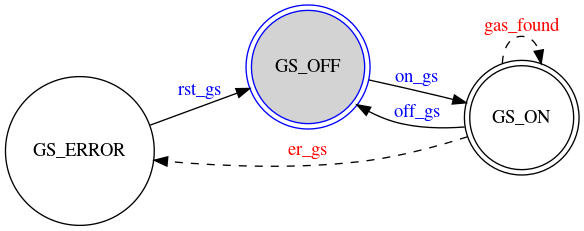
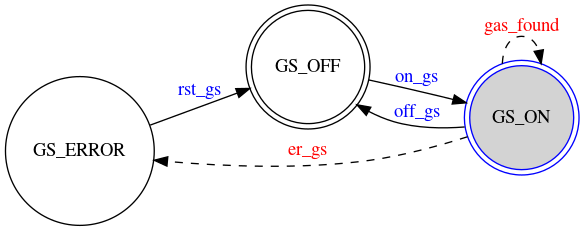
new Interface and EventsMonitor

Changed region(s): [[0.4007, 0.0, 0.6473, 0.5758], [0.7705, 0.2424, 1.0, 0.7576]]

diff --git a/src/Intereface.py b/src/Intereface.py
@@ -21,7 +21,9 @@ class EventInterface(Thread):
         # Set environment variable required for the Interface execution
         os.environ["DISPLAY"]=":0"
 
+        # Control of the tracer
         self.current_status_id = -1
+        self.new_trace = False
 
         # Get name of the Machines
         machines = [s[0] for s in inspect.getmembers(states_module,inspect.isclass)]
@@ -52,15 +54,26 @@ class EventInterface(Thread):
         #####################################################################################################################
         #Layout
         layout =[ 
-            [sg.Text('Current machine:'), sg.InputCombo(values=machines, default_value=machines[0], size=(35,10), key='option', enable_events=True)],
-            [sg.Image("output/" + machines[0] + ".png", key="_IMAGE_", background_color="white")],
-            [sg.Text('Trigger event')],
-            [sg.Radio('Controllable','event_type', default=False, key='controllable',enable_events=True), sg.Radio('Uncontrollable','event_type', default=True, key='uncontrollable',enable_events=True)],
-            [sg.InputCombo(values = self.__not_cont_inputs, default_value= self.__not_cont_inputs[0], size=(20,10), key='selected_event', enable_events=True), sg.Button('TRIGGER', key='trigger')]
-        ]
+            [sg.Text('Current machine:'), 
+             sg.InputCombo(values=machines, default_value=machines[0], size=(35,10), key='option', enable_events=True)],
 
+            [sg.Image("output/" + machines[0] + ".png", key="_IMAGE_", background_color="white")],
+
+            [sg.Frame('Trace:',[
+                [sg.Text("Id"), sg.Text("Event"),sg.Text("Time")],
+                [sg.Multiline(size=(20,10), key='tracer', disabled=True, autoscroll=True)],
+                [sg.SaveAs("SAVE", key='save', file_types = (("ALL Files", "*.*"),("CSV text",".csv"),("Text",".txt")), enable_events=True)]
+                ]),
+            sg.Frame('Trigger event',[
+                [sg.Radio('Controllable','event_type', default=False, key='controllable',enable_events=True)], 
+                [sg.Radio('Uncontrollable','event_type', default=True, key='uncontrollable',enable_events=True)],
+                [sg.InputCombo(values = self.__not_cont_inputs, default_value= self.__not_cont_inputs[0], size=(20,10), key='selected_event', enable_events=True)],
+                [sg.Button('TRIGGER', key='trigger')]
+                ])]                      
+        ]
+        
         #Janela
-        self.janela = sg.Window("State Machine visualizer", size=(1000,500)).layout(layout)
+        self.janela = sg.Window("State Machine visualizer", size=(1000,600)).layout(layout)
         
         
     def run(self):
@@ -71,19 +84,36 @@ class EventInterface(Thread):
 
         while True:
             #Extrair os dados da tela
-            event, values = self.janela.Read(timeout=1000)
+            event, values = self.janela.Read(timeout=10)
             if event in (None, 'Cancel'):   # if user closes window or clicks cancel
                 print('\nCLOSING EVENT INTERFACE ...\n')
                 break
 
-            #Update the Automaton Image
-            try:
-                self.janela.Element("_IMAGE_").update(filename="output/" + values['option'] + ".png")
-            except:
-                pass
-            
-            #Update list of events if there is a change between 'controllable' and 'uncontrollable'
-            if event == 'controllable':
+            # New event occured
+            if self.new_trace==True:
+                self.new_trace = False
+                #Update tracer
+                if self.trace.tail(1).index[0] > 0:
+                    if self.__events[self.trace.tail(1)['event'].values[0]].is_controllable():
+                        color = 'blue'
+                    else:
+                        color = 'red'
+                    self.janela['tracer'].print(self.trace.tail(1).drop(columns=['enabled_events','states']).to_string(header=False), text_color=color)
+
+                #Update the Automaton Image
+                try:
+                    self.janela.Element("_IMAGE_").update(filename="output/" + values['option'] + ".png")
+                except:
+                    pass
+
+            if event == 'option':
+                #Update the Automaton Image
+                try:
+                    self.janela.Element("_IMAGE_").update(filename="output/" + values['option'] + ".png")
+                except:
+                    pass
+            elif event == 'controllable':
+                #Update list of events if there is a change between 'controllable' and 'uncontrollable'
                 self.janela.Element('selected_event').update(values = self.enabled_e)
                 self.event_type = 'controllable'
             elif event == 'uncontrollable':
@@ -96,6 +126,8 @@ class EventInterface(Thread):
                     self.__events[values['selected_event']].call()
                 else:
                     self.__receiver.receive_event(values['selected_event'])
+            elif event == 'save':
+                print("Save on -> ", values['save'])
 
         self.janela.Close()
 
@@ -108,15 +140,14 @@ class EventInterface(Thread):
             g_var.trace_update_flag.acquire()
             while (g_var.events_trace.tail(1).empty) or (self.current_status_id == g_var.events_trace.tail(1).index[0]):
                 g_var.trace_update_flag.wait()
-            current_status = g_var.events_trace.tail(1)                 # Get the last update
-            self.current_status_id = current_status.index[0]            # Set the id of the last event
+            self.trace = g_var.events_trace                                  # Get the last update
+            self.current_status_id = self.trace.tail(1).index[0]             # Set the id of the last event
 
-            self.enabled_e = current_status['enabled_events'].array[0]
+            self.new_trace = True
+            self.enabled_e = self.trace.tail(1)['enabled_events'].array[0]
 
             # Update list of allowed controllable events
             if self.event_type == 'controllable':
-                self.janela.Element('selected_event').update(values = self.enabled_e)
-
-            #Update tracer
+                self.janela['selected_event'].update(values = self.enabled_e)
 
             g_var.trace_update_flag.release()                   # Release mutex

diff --git a/src/lib/ProductSystem.py b/src/lib/ProductSystem.py
@@ -30,11 +30,10 @@ def trigger_event(event, event_class, param):
 	g_var.allow_events_flag.acquire()
 	while g_var.event_allowed == False:
 		g_var.allow_events_flag.wait()											# Wait till all State Machines are updated
-	g_var.event_allowed = False													# Block occurance of another event
-	g_var.allow_events_flag.release()
-
+	
 	#Verify if the current event is enabled by all SM that contain it
 	if event_class.get_status() == True:
+		g_var.event_allowed = False													# Block occurance of another event
 		g_var.new_event.acquire()											# Update last event occured
 		g_var.last_event = event
 
@@ -49,13 +48,15 @@ def trigger_event(event, event_class, param):
 		g_var.new_event.release()											# Release mutexes
 	else:
 		print(event, ' not enabled!')										# Current controllable event not allowed by the system
+
+	g_var.allow_events_flag.release()
 	
 
 class EventsMonitor(Thread):
 	'''
 		Class responsible for monitoring the set of enabled events, last event and current states
 	'''
-	def __init__(self):
+	def __init__(self, SM_number = 1):
 		Thread.__init__(self)
 
 		# Get all controllable events into a list
@@ -63,6 +64,7 @@ class EventsMonitor(Thread):
 		self.__events = {}
 		for x in inspect.getmembers(events_module, inspect.isclass):
 			self.__events[x[0]]=x[1]
+		self.SM_quantity = SM_number
     
 		self.__cont_e = [e for e in self.__events if self.__events[e].is_controllable()] 
 
@@ -70,7 +72,7 @@ class EventsMonitor(Thread):
 		while True:
 			#Verify if all Machines are updated
 			g_var.SM_update_flag.acquire()
-			while (not all(g_var.SM_status.values()) or (not bool(g_var.SM_status))):
+			while (not all(g_var.SM_status.values())) or (len(g_var.SM_status) < self.SM_quantity):
 				g_var.SM_update_flag.wait()
 			g_var.SM_status = {x: False for x in g_var.SM_status}				# Clear all State Machines status
 			g_var.SM_update_flag.release()

diff --git a/src/system_start.py b/src/system_start.py
@@ -5,14 +5,7 @@ from MissionManager import MissionManager
 from Intereface import EventInterface
 from lib.ProductSystem import EventsMonitor
 
-
-em = EventsMonitor()
-em.start()
-
-#############################################################################
-#### Start the Interface ####################################################
-ev = EventInterface()
-ev.start()
+machines_counter = 0
 
 #############################################################################
 #### Create and Start Multiple State Machines from one file  #################
@@ -21,6 +14,7 @@ G.read_xml('files/Plant.xml')         # File with multiple Automata
 SM = {}
 for aut in G.get_automata().values():
     SM[aut.get_name()] = StateMachine(aut)
+    machines_counter += 1
 
 #Start all State Machines
 for sm in SM.values():
@@ -34,10 +28,23 @@ S.read_xml('files/Supervisors.xml')         # File with multiple Automata
 SUP = {}
 for aut in S.get_automata().values():
     SUP[aut.get_name()] = Supervisor(aut)
+    machines_counter += 1
 
 #Start all State Machines
 for sup in SUP.values():
     sup.start()
+
+
+#############################################################################
+#### Start the Events Monitor ###############################################
+em = EventsMonitor(machines_counter)
+em.start()
+
+#############################################################################
+#### Start the Interface ####################################################
+ev = EventInterface()
+ev.start()
+
 
 #############################################################################
 #### Start the Mission Manager  #############################################

diff --git a/src/MissionManager.py b/src/MissionManager.py
@@ -26,6 +26,7 @@ class MissionManager(Thread):
 
     def get_last_update(self):
         g_var.trace_update_flag.acquire()
+        g_var.trace_update_flag.wait()
         current_status = g_var.events_trace.tail(1)        # Get the last update
         g_var.trace_update_flag.release()
 
@@ -34,14 +35,16 @@ class MissionManager(Thread):
     
     def run(self):
         # On this exemple the Mission Manager will only run the following events
-        events_to_execute = ['on_gs', 'on_vs', 'st_app', 'off_vs', 'off_gs']
+        events_to_execute = ['on_gs','off_gs','on_gs', 'on_vs', 'on_vs', 'st_app', 'off_vs', 'off_gs']
 
         for e in events_to_execute:
-            current = self.get_last_update()
-            last_event = current['event'].array[0]
-            enabled_events = current['enabled_events'].array[0]
-            print("\nLast event --> ", last_event)
-            print("Enabled_events --> ", enabled_events)
+            # current = self.get_last_update()
+            # if current.index[0] > 0:
+            #     last_event = current['event'].array[0]
+            #     print("\nLast event --> ", last_event)
+
+            # enabled_events = current['enabled_events'].array[0]
+            # print("Enabled_events --> ", enabled_events)
 
             self.__cont_events[e].call()
             time.sleep(2)
